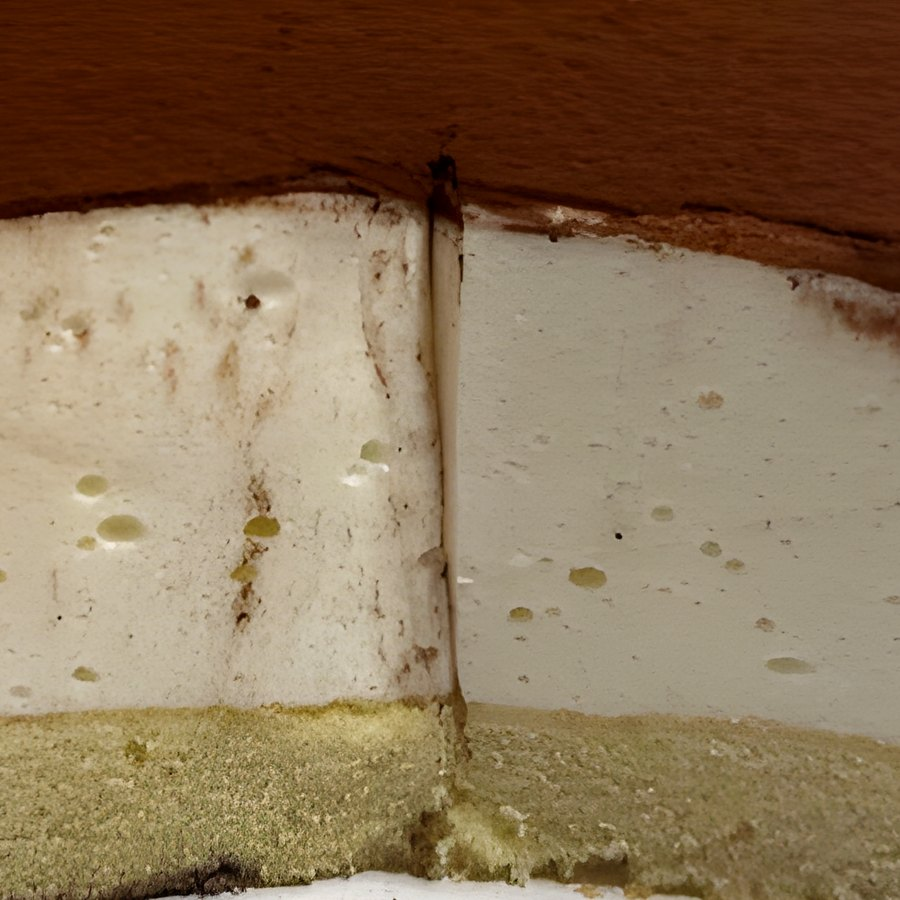
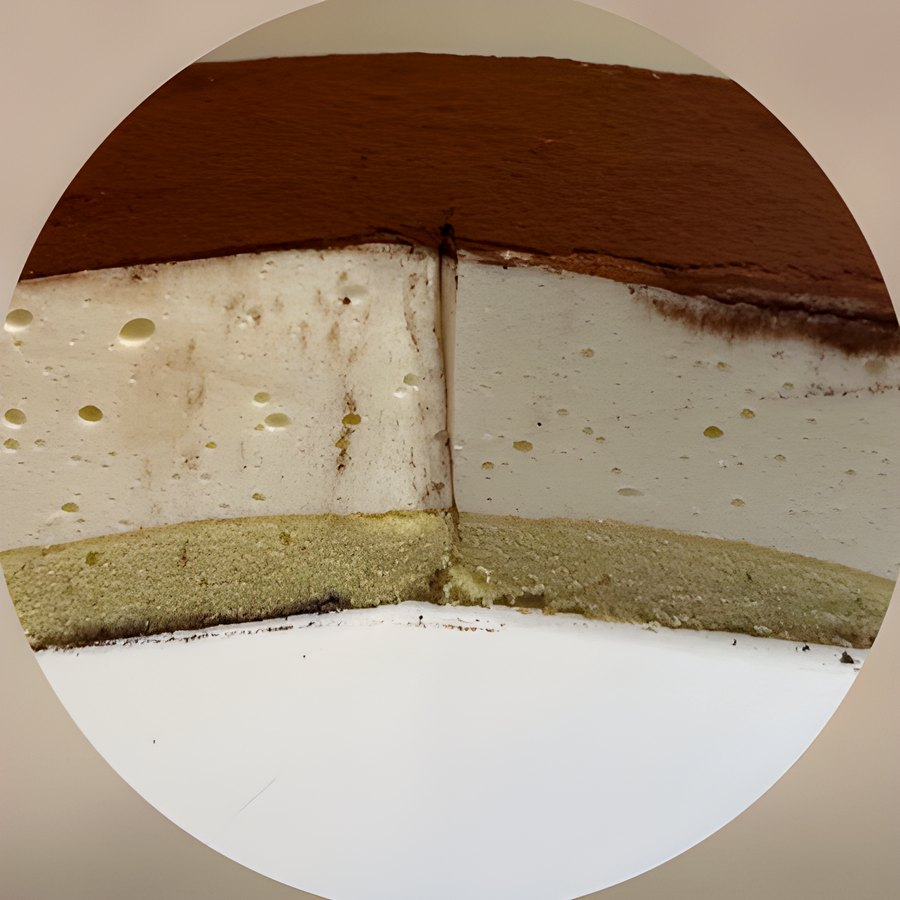
Новые фото разрезов, без зума в круге; версия картинок 5

diff --git a/index.html b/index.html
@@ -23,7 +23,7 @@
   <link rel="stylesheet" href="https://fonts.googleapis.com/css2?family=Cormorant+Unicase:wght@300;400;500&amp;family=Jost:wght@300;400;500&amp;display=swap" media="print" onload="this.media='all'">
   <noscript><link rel="stylesheet" href="https://fonts.googleapis.com/css2?family=Cormorant+Unicase:wght@300;400;500&amp;family=Jost:wght@300;400;500&amp;display=swap"></noscript>
   <link rel="stylesheet" href="calendar.css">
-  <link rel="stylesheet" href="styles.css?v=8">
+  <link rel="stylesheet" href="styles.css?v=9">
 </head>
 <body>
   <a class="skip-link" href="#fillings">К начинкам</a>
@@ -248,7 +248,7 @@
 
   <div class="toast" id="toast" role="status" aria-live="polite"></div>
 
-  <script src="data.js?v=6"></script>
+  <script src="data.js?v=7"></script>
   <script src="calendar.js"></script>
   <script src="script.js?v=7"></script>
 </body>

diff --git a/styles.css b/styles.css
@@ -201,8 +201,6 @@ button { font: inherit; color: inherit; }
 .photo--round { border-radius: 50%; aspect-ratio: 1; width: 100%; max-width: 168px; margin-inline: auto; }
 /* круг в карточке начинки — ~88% ширины карточки (padding карточки 12px, на планшете и шире 16px) */
 .card--filling .photo--round { width: min(100%, calc((100% + 24px) * 0.88)); max-width: none; }
-/* лёгкий зум: края фото не видны по краю круга */
-.photo--round img { transform: scale(1.08); }
 .photo--layers {
   border: 0;
   box-shadow: inset 0 0 0 5px rgba(255, 250, 243, 0.9), 0 4px 14px rgba(74, 48, 39, 0.12);

diff --git a/data.js b/data.js
@@ -20,7 +20,7 @@ window.SITE = {
 
   // Версия фото товаров в images/fillings и images/desserts.
   // Заменили файл с тем же именем — увеличьте число, и браузеры загрузят новое фото, а не старое из кэша.
-  photoVersion: 4,
+  photoVersion: 5,
 
   // Порядок категорий на сайте; новые категории из таблицы встанут после этих
   categoryOrder: ["Стандарт", "Лайт", "Премиум", "Советская классика"],

diff --git a/admin/index.html b/admin/index.html
@@ -46,7 +46,7 @@
 
   <div class="toast" id="toast" role="status" aria-live="polite"></div>
 
-  <script src="../data.js?v=6"></script>
+  <script src="../data.js?v=7"></script>
   <script src="../calendar.js"></script>
   <script src="admin.js?v=4"></script>
 </body>
